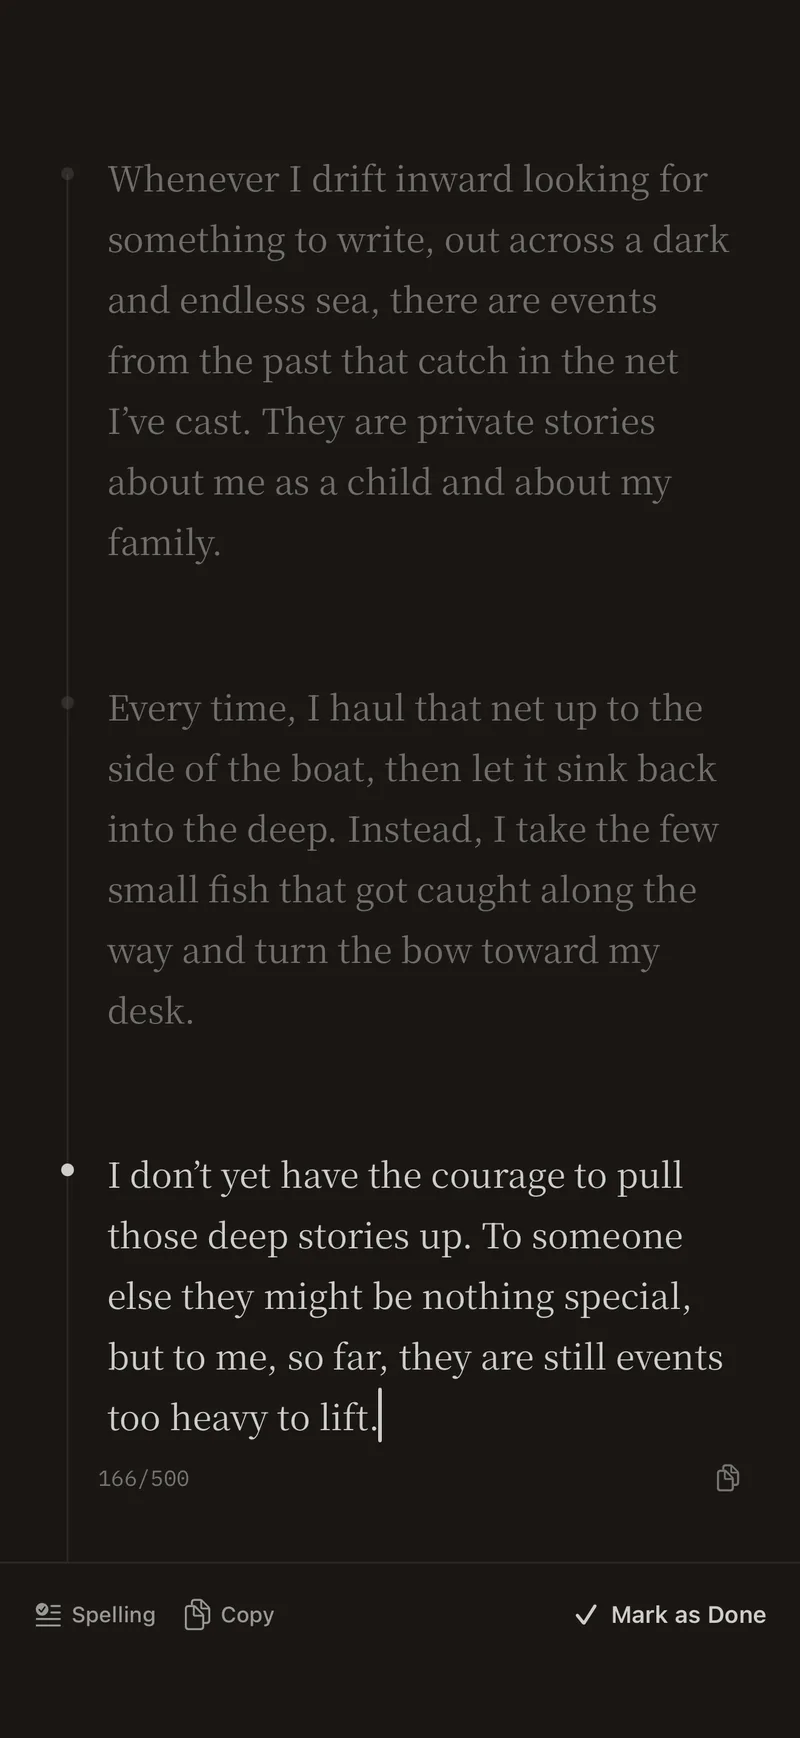
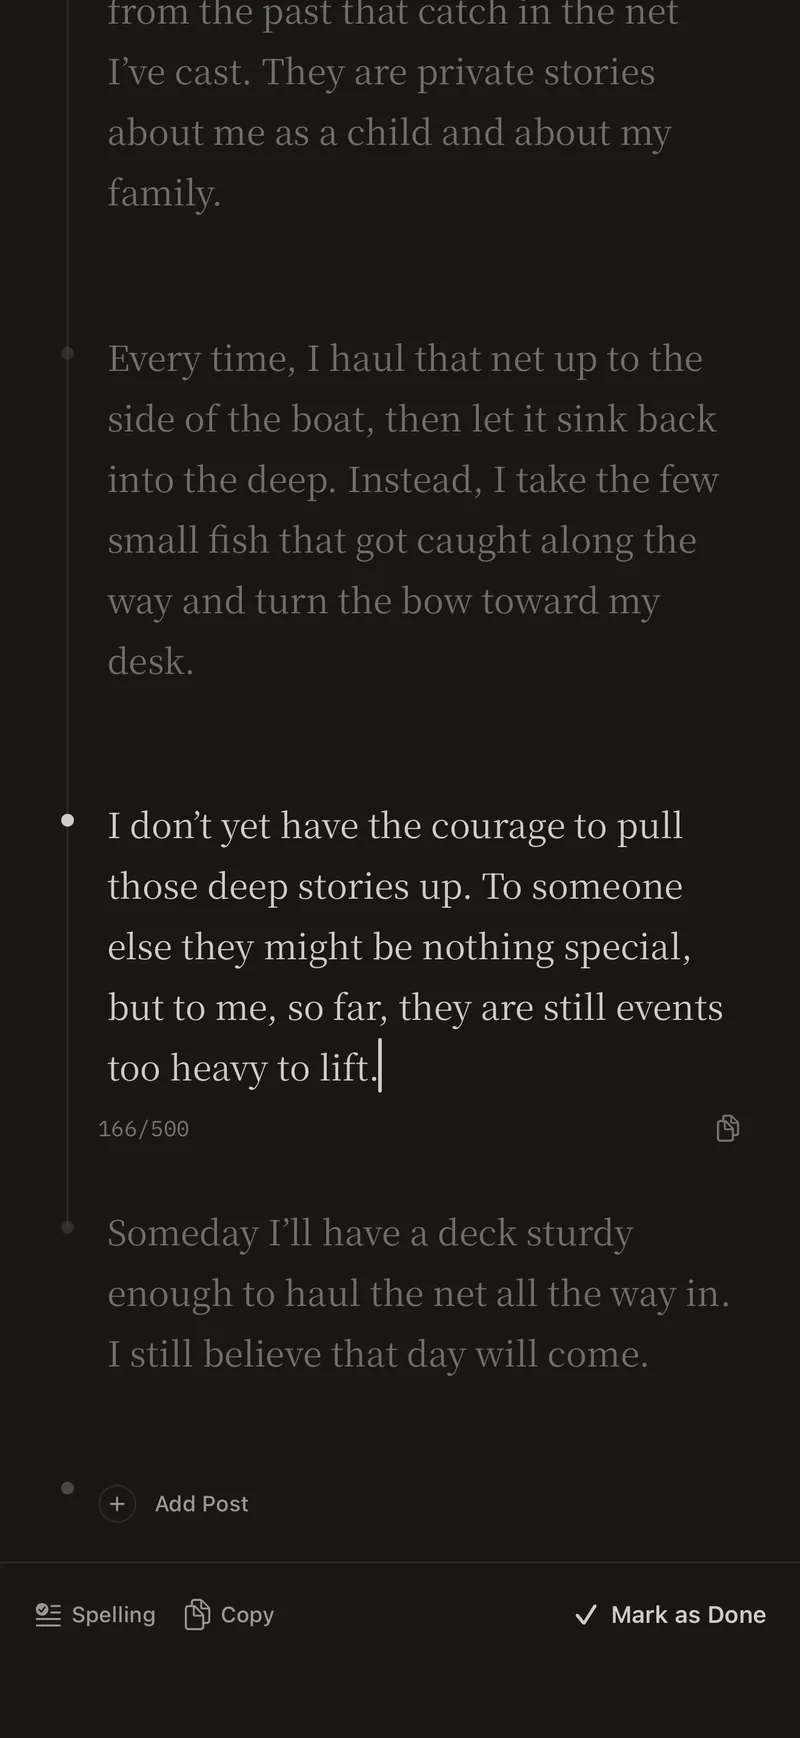
Fill the English centre screen to its top edge
The island came off the stage (5982bfb) and the Korean writing shot was
retaken scrolled to the end of the piece. The English one was still the
shot framed for the island, with empty room at the top; it is retaken
the same way, so both centre screens are editor text from the top edge.

diff --git a/en/index.html b/en/index.html
@@ -51,7 +51,7 @@
   <div class="spread">
     <figure class="phone outer"><picture><source media="(prefers-color-scheme: dark)" srcset="/assets/screens/en-memo-dark-400.webp?v=c47cd1fc1d 400w, /assets/screens/en-memo-dark-800.webp?v=978556e8cb 800w" sizes="(max-width: 899px) 64vw, 300px" /><img src="/assets/screens/en-memo-light-800.webp?v=b11b18cb8d" srcset="/assets/screens/en-memo-light-400.webp?v=786c3e8a3c 400w, /assets/screens/en-memo-light-800.webp?v=b11b18cb8d 800w" sizes="(max-width: 899px) 64vw, 300px" width="800" height="1738" alt="The note written first stays at the top, with the thread continuing below it" loading="lazy" decoding="async" /></picture><figcaption>From note to writing</figcaption></figure>
     <figure class="phone inner"><picture><source media="(prefers-color-scheme: dark)" srcset="/assets/screens/en-overflow-dark-400.webp?v=87e720196f 400w, /assets/screens/en-overflow-dark-800.webp?v=003f7e17a0 800w" sizes="(max-width: 899px) 64vw, 300px" /><img src="/assets/screens/en-overflow-light-800.webp?v=a5399e40b9" srcset="/assets/screens/en-overflow-light-400.webp?v=56ba227f9d 400w, /assets/screens/en-overflow-light-800.webp?v=a5399e40b9 800w" sizes="(max-width: 899px) 64vw, 300px" width="800" height="1738" alt="A post past 500 characters — only the part that runs over is shaded pale red, and 593/500 is shown" loading="lazy" decoding="async" /></picture><figcaption>Made for Threads</figcaption></figure>
-    <figure class="phone center"><picture><source media="(prefers-color-scheme: dark)" srcset="/assets/screens/en-writing-dark-400.webp?v=e5e30702f4 400w, /assets/screens/en-writing-dark-800.webp?v=d68ad88177 800w" sizes="(max-width: 899px) 64vw, 300px" /><img src="/assets/screens/en-writing-light-800.webp?v=6fe03a386c" srcset="/assets/screens/en-writing-light-400.webp?v=9948982b94 400w, /assets/screens/en-writing-light-800.webp?v=6fe03a386c 800w" sizes="(max-width: 899px) 64vw, 300px" width="800" height="1738" alt="Writing mode — only the post being written stays sharp while the rest of the thread fades back" decoding="async" /></picture><figcaption>Built for focus</figcaption></figure>
+    <figure class="phone center"><picture><source media="(prefers-color-scheme: dark)" srcset="/assets/screens/en-writing-dark-400.webp?v=7b488bab09 400w, /assets/screens/en-writing-dark-800.webp?v=ecc99c5ae4 800w" sizes="(max-width: 899px) 64vw, 300px" /><img src="/assets/screens/en-writing-light-800.webp?v=f856294be3" srcset="/assets/screens/en-writing-light-400.webp?v=9a1f1d6f43 400w, /assets/screens/en-writing-light-800.webp?v=f856294be3 800w" sizes="(max-width: 899px) 64vw, 300px" width="800" height="1738" alt="Writing mode — only the post being written stays sharp while the rest of the thread fades back" decoding="async" /></picture><figcaption>Built for focus</figcaption></figure>
     <figure class="phone inner"><picture><source media="(prefers-color-scheme: dark)" srcset="/assets/screens/en-spellcheck-dark-400.webp?v=9de164ac56 400w, /assets/screens/en-spellcheck-dark-800.webp?v=93e656b1c3 800w" sizes="(max-width: 899px) 64vw, 300px" /><img src="/assets/screens/en-spellcheck-light-800.webp?v=a8eee92b6d" srcset="/assets/screens/en-spellcheck-light-400.webp?v=b59b760473 400w, /assets/screens/en-spellcheck-light-800.webp?v=a8eee92b6d 800w" sizes="(max-width: 899px) 64vw, 300px" width="800" height="1738" alt="Spelling results — each fix shows the original and the suggestion, to apply one at a time or all at once with Apply All" loading="lazy" decoding="async" /></picture><figcaption>Spelling, fixed in place</figcaption></figure>
     <figure class="phone outer"><picture><source media="(prefers-color-scheme: dark)" srcset="/assets/screens/en-publish-dark-400.webp?v=5433ab0173 400w, /assets/screens/en-publish-dark-800.webp?v=c3bac17a63 800w" sizes="(max-width: 899px) 64vw, 300px" /><img src="/assets/screens/en-publish-light-800.webp?v=073cf6215a" srcset="/assets/screens/en-publish-light-400.webp?v=1258ba018b 400w, /assets/screens/en-publish-light-800.webp?v=073cf6215a 800w" sizes="(max-width: 899px) 64vw, 300px" width="800" height="1738" alt="Publish to Threads — all four posts are published, with an Open button below" loading="lazy" decoding="async" /></picture><figcaption>Straight to Threads</figcaption></figure>
   </div>
